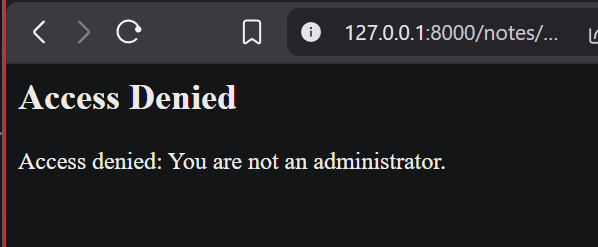
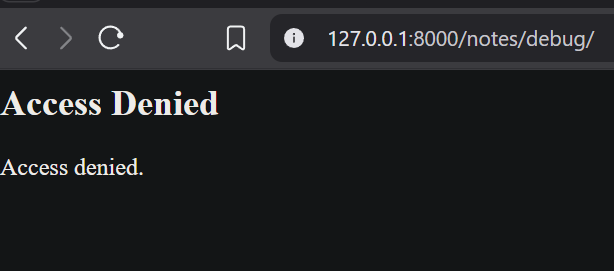
removed flaw 4 due to rejection of essay

Changed region(s): [[0.0, 0.0, 1.0, 1.0], [0.3612, 0.0567, 1.0, 0.1984]]

diff --git a/notes/views.py b/notes/views.py
@@ -2,7 +2,7 @@ from django.shortcuts import render
 from django.db import connection
 from .models import Note
 from django.contrib.auth.models import User
-from django.contrib.auth import login,authenticate
+from django.contrib.auth import login, authenticate
 from django.shortcuts import redirect
 from django.conf import settings
 
@@ -15,8 +15,9 @@ def view_note(request, note_id):
     # FIX:
     # note = Note.objects.get(id=note_id, owner=request.user)
 
+
 def search_notes(request):
-    #FLAW 2: Injection
+    # FLAW 2: Injection
     query = request.GET.get("q", "")
     user_id = request.user.id
 
@@ -33,19 +34,20 @@ def search_notes(request):
     # FIX:
     # notes = Note.objects.filter(owner=request.user, title__icontains=query)
 
+
 def insecure_login(request):
-     # FLAW 3: Identification and Authentication Failures
+    # FLAW 3: Identification and Authentication Failures
 
     if request.method == "GET":
         return render(request, "login.html")
 
     username = request.POST.get("username")
-    password = request.POST.get("password") 
-    
+    password = request.POST.get("password")
+
     user = User.objects.filter(username=username).first()
 
     if user:
-        login(request, user) 
+        login(request, user)
         return redirect("search_notes")
 
     return render(request, "login.html", {
@@ -61,27 +63,9 @@ def insecure_login(request):
     #     "error": "Invalid username or password. Please try again."
     # })
 
-def admin_panel(request):
-    # FLAW 4: Insecure Design
-    users = User.objects.all()
-    return render(request, "admin.html", {
-        "users": users
-    })
-
-    # FIX:
-    # if not request.user.is_staff:
-    #     return render(request, "error.html", {
-    #         "error": "Access denied: You are not an administrator."
-    #     })
-    #
-    # users = User.objects.all()
-    # return render(request, "admin.html", {
-    #     "users": users
-    # })
-
 
 def debug_info(request):
-    # FLAW 5: Security Misconfiguration
+    # FLAW 4: Security Misconfiguration
     debug_data = {
         "DEBUG": settings.DEBUG,
         "DATABASE_ENGINE": settings.DATABASES["default"]["ENGINE"],
@@ -109,19 +93,24 @@ def debug_info(request):
 
 
 def insecure_register(request):
-    # FLAW 6: Cryptgoraphic Failures
+    # FLAW 5: Cryptographic Failures
     if request.method == "GET":
         return render(request, "register.html")
 
     username = request.POST.get("username")
     password = request.POST.get("password")
 
-    # FIX:
-    user = User.objects.create_user(
+    user = User(
         username=username,
         password=password
     )
+    user.save()
 
     return redirect("login")
 
-
+    # FIX:
+    # user = User.objects.create_user(
+    #     username=username,
+    #     password=password
+    # )
+    # return redirect("login")
